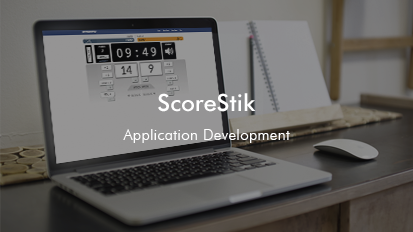
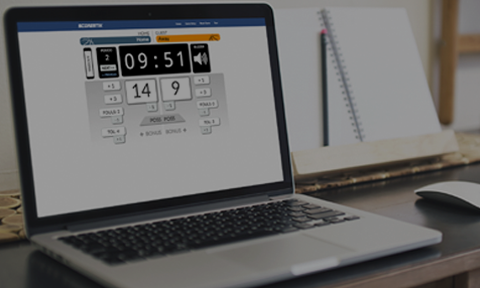
CHANGED: Work images to have html text on them instead of being a part of the image TASK: https://app.asana.com/0/58528284743859/413747871832298

diff --git a/our-work.html b/our-work.html
@@ -5,7 +5,7 @@ permalink: /our-work/
 layout: page-with-hero
 hero-text: Combining our skills to make your business <span class='underline'>scale</span>
 hero-class: work-hero
-body-class: with-hero
+body-class: with-hero our-work-page
 ---
 <div class='container'>
 	<div class='row'>
@@ -22,8 +22,11 @@ body-class: with-hero
 </div>
 {% for work in site.our_work %}
 	<a class="work-link" href="{{ work.url | relative_url }}">
-		<div class='work-tile {{work.classes}} {% unless work.classes contains "featured" %}hidden{%endunless%}' style='background: url({{ work.thumbnail }}); background-size: cover; background-position: top center;'></div>
+		<div class='work-tile {{work.classes}} {% unless work.classes contains "featured" %}hidden{%endunless%}' style='background: url({{ work.thumbnail }}); background-size: cover; background-position: top center;'>
+				<h3 class="work-link-title">{{work.display_title}}</h3>
+				<p class="work-link-tagline">{{work.display_tagline}}</p>
+		</div>
 	</a>
 {% endfor %}
 <p>&nbsp;</p>
-<p class='center-text'><a class='button' href='/contact-us/'>Contact Us</a></p>
+<p class='center-text u-cf u-full-width'><a class='button' href='/contact-us/'>Contact Us</a></p>

diff --git a/_sass/_work.sass b/_sass/_work.sass
@@ -6,12 +6,16 @@
 .work-tile
 	float: left
 	width: 50%
-	padding-bottom: 30%
+	padding: 10% 0
 	-webkit-transition: all 1s ease-in-out
 	-moz-transition: all 1s ease-in-out
 	-ms-transition: all 1s ease-in-out
 	transition: all 1s ease-in-out
 	opacity: 1
+	color: white
+	text-align: center
+	overflow: hidden
+	white-space: nowrap
 	&.hidden
 		width: 0
 		opacity: 0
@@ -55,3 +59,17 @@
 
 .work-description
 	color: $grey
+
+@media (max-width: $tabletSize)
+	.our-work-page .work-link 
+		.work-link-title
+			font-size: 2.5rem
+		.work-link-tagline
+			font-size: 1.5rem
+
+@media (max-width: $mobileSize)
+	.our-work-page .work-link 
+		.work-link-title
+			font-size: 2rem
+		.work-link-tagline
+			font-size: 1.2rem

diff --git a/_sass/_home-work.sass b/_sass/_home-work.sass
@@ -1,12 +1,14 @@
 .work-list article
 	margin-top: 25px
 	.work-link 
-		background-position: top center !important 
-		background-size: cover !important
-		width: 100% !important
-		padding-bottom: 50% !important
+		background-position: top center
+		background-size: cover
+		width: 100%
+		padding: 15% 0 10%
 		float: left !important
 		position: relative
+		text-align: center
+		color: white
 		&::before
 			content: ""
 			position: absolute

diff --git a/_includes/home/work-excerpt.html b/_includes/home/work-excerpt.html
@@ -1,4 +1,6 @@
 <article class="six columns u-max-full-width">
-	<a class="work-link" href="{{ work.url | relative_url }}" style="background: url({{ work.thumbnail }});">
+	<a class="work-link" href="{{ work.url | relative_url }}" style="background-image: url({{ work.thumbnail }});">
+		<h3 class="work-link-title">{{work.display_title}}</h3>
+		<p class="work-link-tagline">{{work.display_tagline}}</p>
 	</a>
 </article>

diff --git a/_our_work/checkup-and-choices-custom-web-app.md b/_our_work/checkup-and-choices-custom-web-app.md
@@ -1,6 +1,7 @@
 ---
 title: "Rendr Consulting - CheckUp & Choices custom web application"
 display_title:  "CheckUp & Choices"
+display_tagline: "Application Development"
 image: /assets/images/checkupandchoicesscreenshot.png
 thumbnail: /assets/images/ccthumbnail.png
 layout: our-work

diff --git a/_our_work/johnnyboards-custom-web-app.md b/_our_work/johnnyboards-custom-web-app.md
@@ -1,6 +1,7 @@
 ---
 title: "Rendr Consulting - JohnnyBoards custom web application"
 display_title:  "JohnnyBoards"
+display_tagline: "Application Development"
 image: /assets/images/johnny-boards-logo.jpg
 thumbnail: /assets/images/jbthumbnail.png
 layout: our-work

diff --git a/_our_work/scorestik-custom-web-app.md b/_our_work/scorestik-custom-web-app.md
@@ -1,6 +1,7 @@
 ---
 title: "Rendr Consulting - ScoreStik custom web application"
 display_title:  "ScoreStik"
+display_tagline: "Application Development"
 image: /assets/images/scorestikscreenshots.png
 thumbnail: /assets/images/ssthumbnail.png
 layout: our-work

diff --git a/_our_work/triberr-custom-web-app.md b/_our_work/triberr-custom-web-app.md
@@ -1,6 +1,7 @@
 ---
 title: "Rendr Consulting - Triberr custom web application"
 display_title:  "Triberr"
+display_tagline: "Application Development"
 image: /assets/images/triberr.jpg
 thumbnail: /assets/images/triberrthumbnail.png
 layout: our-work
